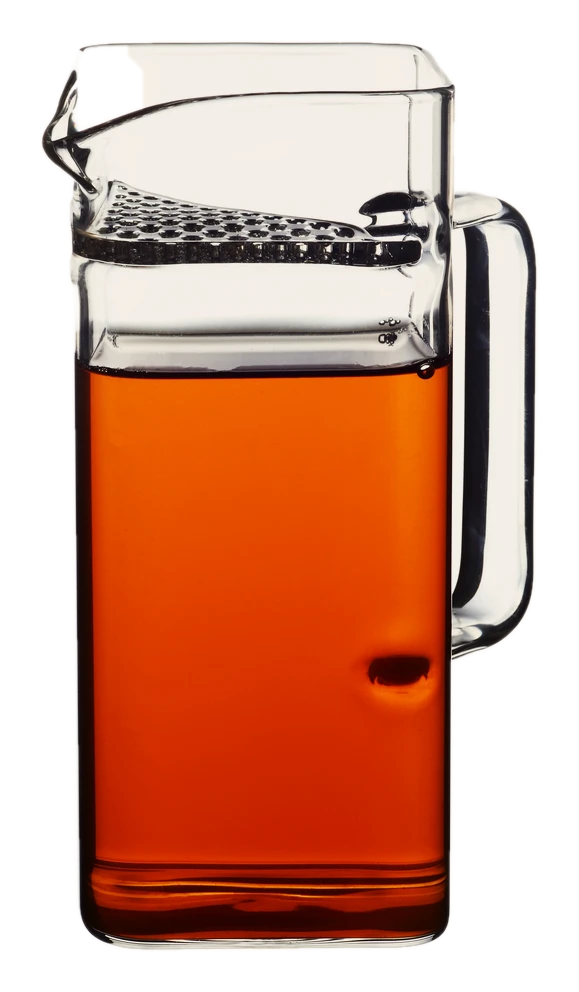
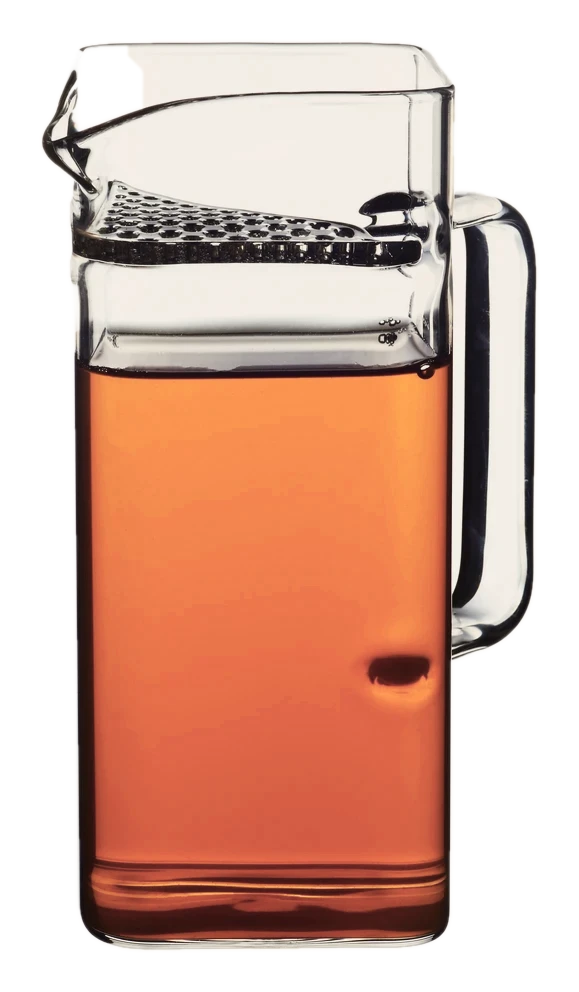
Liquor packshot muted for the soft palette; ship line fits one line
Tea saturation pulled to 68 percent with a slight lift, chroma-masked
so the glass highlights keep their sparkle. Ship line drops IN KOREA
so it stops orphaning MI onto a second line.

diff --git a/koyo-site/gear/simple-steeper.html b/koyo-site/gear/simple-steeper.html
@@ -141,7 +141,7 @@
                 Add to order
               </button>
             </div>
-            <p class="tea-ship mono">DESIGNED BY OUR TEA FARM IN KOREA · SHIPS FROM GRAND RAPIDS, MI</p>
+            <p class="tea-ship mono">DESIGNED BY OUR TEA FARM · SHIPS FROM GRAND RAPIDS, MI</p>
           </div>
         </div>
       </div>

diff --git a/build-gear-pages.py b/build-gear-pages.py
@@ -202,7 +202,7 @@ def build():
         else:
             picker = ""
 
-        ship = ("DESIGNED BY OUR TEA FARM IN KOREA · SHIPS FROM GRAND RAPIDS, MI"
+        ship = ("DESIGNED BY OUR TEA FARM · SHIPS FROM GRAND RAPIDS, MI"
                 if g["brand"] == "KOYO"
                 else "AUTHORIZED " + g["brand"] + " RETAILER · SHIPS FROM GRAND RAPIDS, MI")
         if g.get("launch"):
@@ -210,7 +210,7 @@ def build():
             <div class="tea-buy-row">
               <a class="btn btn-ghost" href="../index.html#letter">Be first to know</a>
             </div>
-            <p class="tea-ship mono">DESIGNED BY OUR TEA FARM IN KOREA · SHIPS FROM GRAND RAPIDS, MI</p>'''
+            <p class="tea-ship mono">DESIGNED BY OUR TEA FARM · SHIPS FROM GRAND RAPIDS, MI</p>'''
         else:
             buy = f'''{picker}
             <p class="tea-price is-visible" id="gear-price">{money(first[2])}</p>
